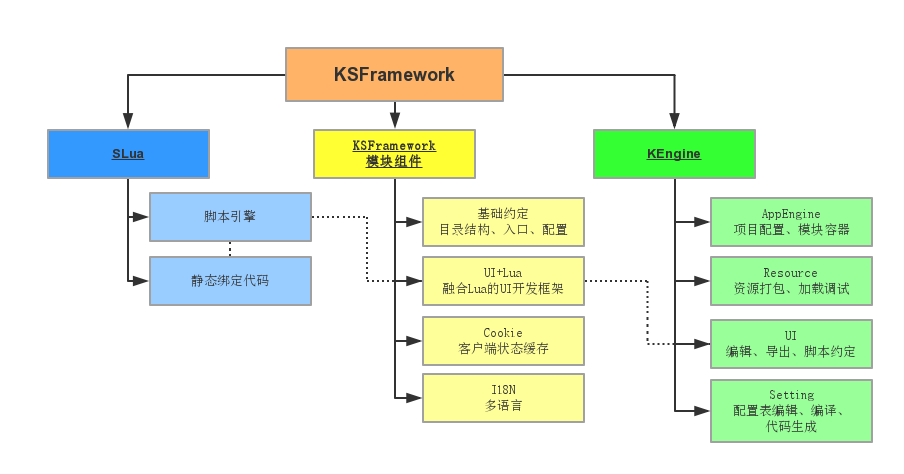
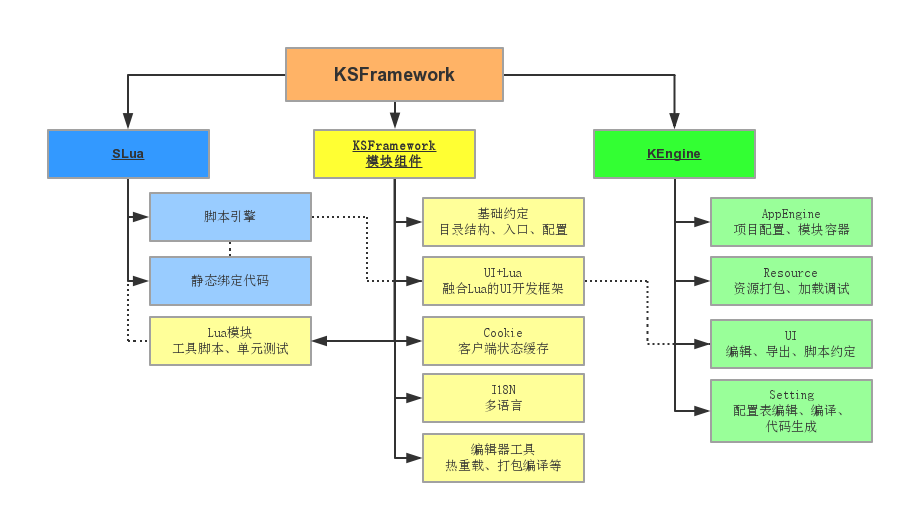
SLua 增强，可运行于Unity Editor， 因此可以做Lua单元测试了

diff --git a/KSFramework/Assets/Plugins/Slua_Managed/LuaSvr.cs b/KSFramework/Assets/Plugins/Slua_Managed/LuaSvr.cs
@@ -55,11 +55,8 @@ namespace SLua
 
 		public LuaSvr()
 		{
-#if !SLUA_STANDALONE
-			GameObject go = new GameObject("LuaSvrProxy");
-			lgo = go.AddComponent<LuaSvrGameObject>();
-			GameObject.DontDestroyOnLoad(go);
-#endif
+			LuaState luaState = new LuaState();
+            this.luaState = luaState;
 		}
 
 		private volatile int bindProgress = 0;
@@ -169,7 +166,10 @@ namespace SLua
 		{
 #if !SLUA_STANDALONE
 			LuaTimer.reg(L);
-			LuaCoroutine.reg(L, lgo);
+#if UNITY_EDITOR
+            if (UnityEditor.EditorApplication.isPlaying)
+#endif
+            LuaCoroutine.reg(L, lgo);
 #endif
 			Helper.reg(L);
 			LuaValueType.reg(L);
@@ -180,12 +180,20 @@ namespace SLua
 				Lua3rdDLL.open(L);
 
 #if !SLUA_STANDALONE
-			lgo.state = luaState;
-			lgo.onUpdate = this.tick;
-			lgo.init();
+#if UNITY_EDITOR
+		    if (UnityEditor.EditorApplication.isPlaying)
+		    {
 #endif
-			
-			inited = true;
+            lgo.state = luaState;
+            lgo.onUpdate = this.tick;
+            lgo.init();
+#if UNITY_EDITOR
+		    }
+
+#endif
+#endif
+
+                inited = true;
 		}
 
 		void checkTop(IntPtr L)
@@ -199,10 +207,20 @@ namespace SLua
 
 		public void init(Action<int> tick,Action complete,LuaSvrFlag flag=LuaSvrFlag.LSF_BASIC)
         {
-			LuaState luaState = new LuaState();
-            this.luaState = luaState;
-
-			IntPtr L = luaState.L;
+#if !SLUA_STANDALONE
+		    if (lgo == null
+#if UNITY_EDITOR
+                && UnityEditor.EditorApplication.isPlaying
+#endif
+                )
+		    {
+                GameObject go = new GameObject("LuaSvrProxy");
+                lgo = go.AddComponent<LuaSvrGameObject>();
+                GameObject.DontDestroyOnLoad(go);
+		        
+		    }
+#endif
+            IntPtr L = luaState.L;
 			LuaObject.init(L);
 
 #if SLUA_STANDALONE
@@ -218,16 +236,29 @@ namespace SLua
 			// any code access unity interface will cause deadlock.
 			// if you want to debug bind code using unity interface, need call doBind directly, like:
 			// doBind(L);
-			ThreadPool.QueueUserWorkItem(doBind, L);
-
-			lgo.StartCoroutine(waitForBind(tick, () =>
-			{
-				doinit(L,flag);
-				complete();
-				checkTop(L);
-			}));
+#if UNITY_EDITOR
+		    if (!UnityEditor.EditorApplication.isPlaying)
+		    {
+		        doBind(L);
+		        doinit(L, flag);
+		        complete();
+		        checkTop(L);
+		    }
+		    else
+		    {
 #endif
-        }
+		        ThreadPool.QueueUserWorkItem(doBind, L);
+		        lgo.StartCoroutine(waitForBind(tick, () =>
+		        {
+		            doinit(L, flag);
+		            complete();
+		            checkTop(L);
+		        }));
+#if UNITY_EDITOR
+		    }
+#endif
+#endif
+            }
 
 		public object start(string main)
 		{

diff --git a/KSFramework/Assets/KSFramework/Modules/LuaModule/LuaModule.cs b/KSFramework/Assets/KSFramework/Modules/LuaModule/LuaModule.cs
@@ -48,7 +48,7 @@ namespace KSFramework
         /// </summary>
         /// <param name="scriptCode"></param>
         /// <returns></returns>
-        object _DoScript(byte[] scriptCode)
+        public object ExecuteScript(byte[] scriptCode)
         {
             string script = Encoding.UTF8.GetString(scriptCode);
             return _luaSvr.luaState.doString(script);
@@ -69,7 +69,7 @@ namespace KSFramework
                 script = File.ReadAllBytes(scriptPath);
             else
                 script = KResourceModule.LoadSyncFromStreamingAssets(scriptPath);
-            var ret = _DoScript(script);
+            var ret = ExecuteScript(script);
             return ret;
         }
 
@@ -123,7 +123,7 @@ namespace KSFramework
             }
 
             var L = _luaSvr.luaState.L;
-            LuaDLL.lua_pushcfunction(L, import);
+            LuaDLL.lua_pushcfunction(L, LuaImport);
             LuaDLL.lua_setglobal(L, "import");
             LuaDLL.lua_pushcfunction(L, LuaUsing);
             LuaDLL.lua_setglobal(L, "using"); // same as SLua's import, using namespace
@@ -190,10 +190,20 @@ namespace KSFramework
         /// <param name="l"></param>
         /// <returns></returns>
         [MonoPInvokeCallback(typeof(LuaCSFunction))]
-        internal static int import(IntPtr L)
+        internal
+#if !UNITY_EDITOR
+            static
+#endif
+            int LuaImport(IntPtr L)
         {
+#if !UNITY_EDITOR
+            LuaModule luaModule = KSGame.Instance.LuaModule;
+#else
+            // Editor模式，为了配合单元测试，把这个函数做成实例方法
+            LuaModule luaModule = this;
+#endif
             string fileName = LuaDLL.lua_tostring(L, 1);
-            var obj = KSGame.Instance.LuaModule.CallScript(fileName);
+            var obj = luaModule.CallScript(fileName);
 
             LuaObject.pushValue(L, obj);
             LuaObject.pushValue(L, true);

diff --git a/KSFramework/Assets/KSFramework/Editor/KSFrameworkTests.cs b/KSFramework/Assets/KSFramework/Editor/KSFrameworkTests.cs
@@ -1,0 +1,38 @@
+#if UNITY_5
+using System.IO;
+using KEngine;
+using KSFramework;
+using UnityEngine;
+using UnityEditor;
+using NUnit.Framework;
+
+public class KSFrameworkTests
+{
+    private static LuaModule _testLuaModule;
+    public static LuaModule GetLuaModule()
+    {
+        if (_testLuaModule != null) return _testLuaModule;
+
+	    var luaModule = new LuaModule();
+	    var em = luaModule.Init();
+	    while (em.MoveNext())
+	    {
+	    }
+        _testLuaModule = luaModule;
+        return luaModule;
+    }
+
+	[Test]
+	public void AllLuaTests()
+	{
+	    var editorLuaScriptPath = Path.Combine(KResourceModule.EditorProductFullPath, "LuaTests");
+        foreach(var filepath in Directory.GetFiles(editorLuaScriptPath, "*.lua", SearchOption.AllDirectories))
+        {
+            Log.Warning("Test lua: {0}", filepath);
+            var script = File.ReadAllBytes(filepath);
+            GetLuaModule().ExecuteScript(script);
+        }
+
+	}
+}
+#endif

diff --git a/README.md b/README.md
@@ -28,6 +28,7 @@ KSFramework是一个整合KEngine、SLua和一些开发组件组成的全功能U
 - AssetBundle加载器，加载时自动处理依赖关系
 - 资源路径约定，含热更新资源机制
 - 手动的、引用计数的资源释放策略
+- ~~资源运行时重载（减引用计数）~~
 
 ## UI模块
 
